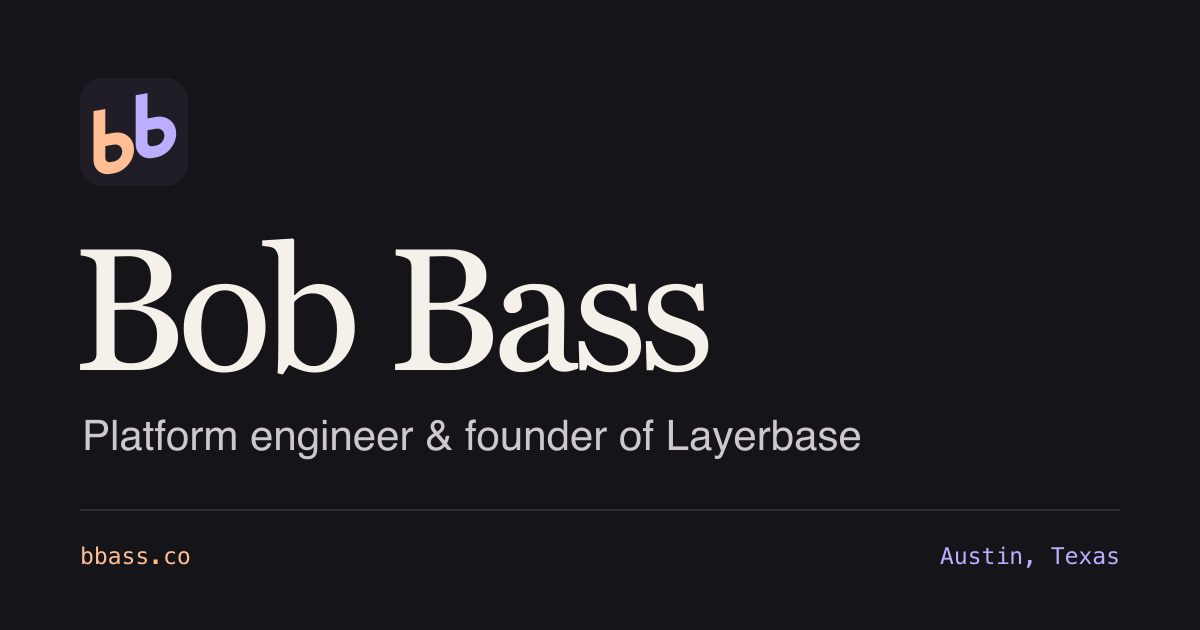
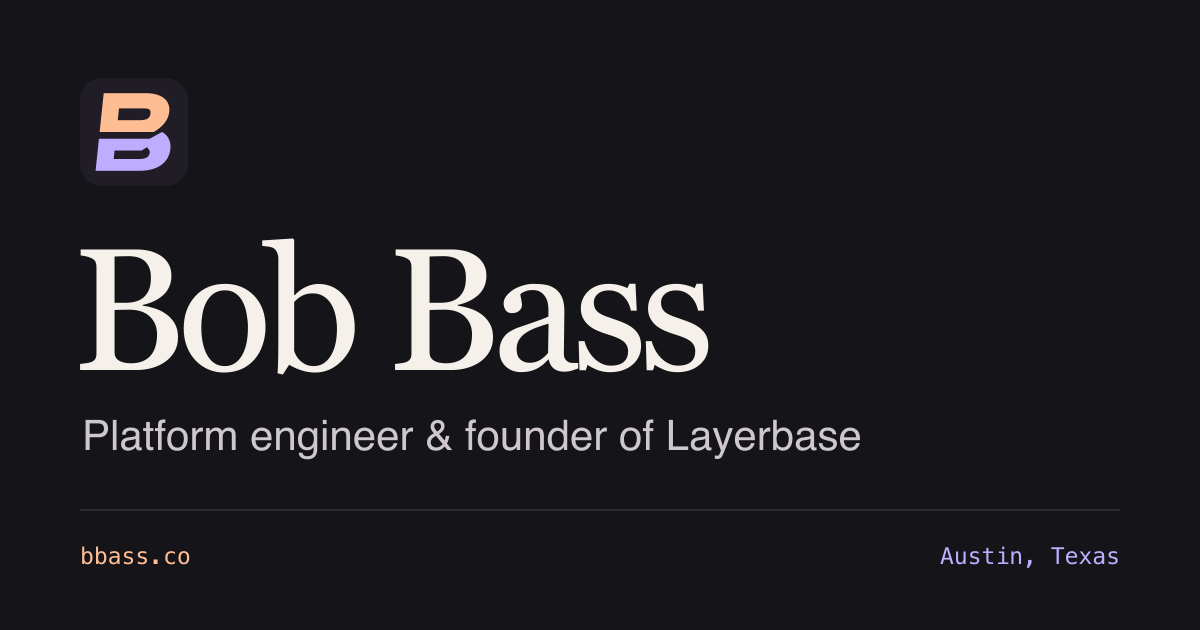
Ship Split B branding and updated Layerbase profile

Changed region(s): [[0.0617, 0.1206, 0.1542, 0.2714]]

diff --git a/app/(frontend)/(site)/page.tsx b/app/(frontend)/(site)/page.tsx
@@ -39,7 +39,8 @@ export default function HomePage() {
             </p>
             <h1 id="profile-title">Bob Bass</h1>
             <p className="hero-intro">
-              I build database platforms and the infrastructure that runs them.
+              I build the infrastructure developers use to run databases and
+              ship apps.
             </p>
             <p className="hero-roles">
               Founder &amp; CEO of <a href={socialLinks.startup}>Layerbase</a>.
@@ -68,11 +69,19 @@ export default function HomePage() {
                 </h3>
                 <p className="work-role">Founder &amp; CEO</p>
               </div>
-              <p>
-                I build the developer tools and cloud service behind Layerbase,
-                from the local database runtime to isolated database branches
-                for preview deployments.
-              </p>
+              <div className="work-description">
+                <p>
+                  I’m building Layerbase so developers can bring their
+                  open-source database of choice. It’s a serverless database
+                  platform with engine-agnostic branching. You can fork
+                  Postgres, MySQL, or Redis for a preview through the same API.
+                </p>
+                <p>
+                  Agent sandboxes are live, and we’re piloting Next.js app
+                  hosting. I’m building toward one place to develop and host an
+                  entire application, from the first experiment to production.
+                </p>
+              </div>
             </article>
             <article className="work-row">
               <div>
@@ -82,10 +91,14 @@ export default function HomePage() {
                 <p className="work-role">Head of Engineering</p>
               </div>
               <p>
-                I lead the engineering team and write software for our flagship
-                product.
+                I lead engineering at Efficient.app, where we test software
+                hands-on and help teams decide which tools are worth paying for.
               </p>
             </article>
+            <p className="work-aside">
+              Apparently, competing with G2 at my day job left just enough time
+              to take on Vercel and Supabase.
+            </p>
           </div>
         </section>
         <section

diff --git a/app/(frontend)/(site)/profile.css b/app/(frontend)/(site)/profile.css
@@ -155,10 +155,20 @@
   margin-top: 0.5rem;
   color: var(--accent-ink);
 }
+.work-description,
 .work-row > p,
 .about-section p {
   color: var(--secondary-ink);
   line-height: 1.66;
+}
+.work-description p + p {
+  margin-top: 0.75rem;
+}
+.work-aside {
+  max-width: 42em;
+  margin-top: 1.7rem;
+  color: var(--accent-ink);
+  font: italic 1.35rem/1.35 var(--editorial);
 }
 .about-section {
   border-top: 1px solid var(--rule);
